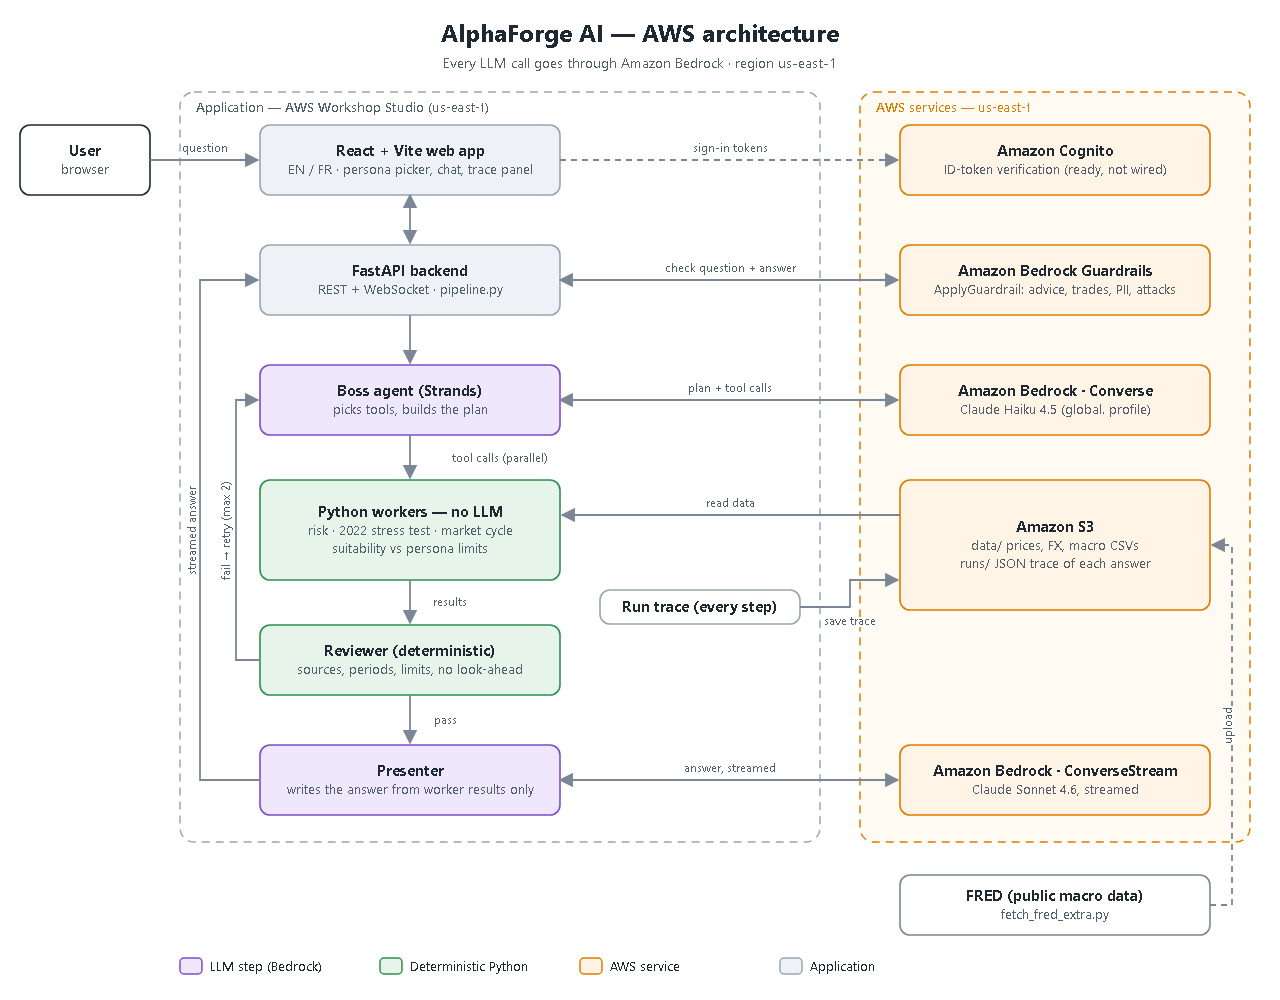
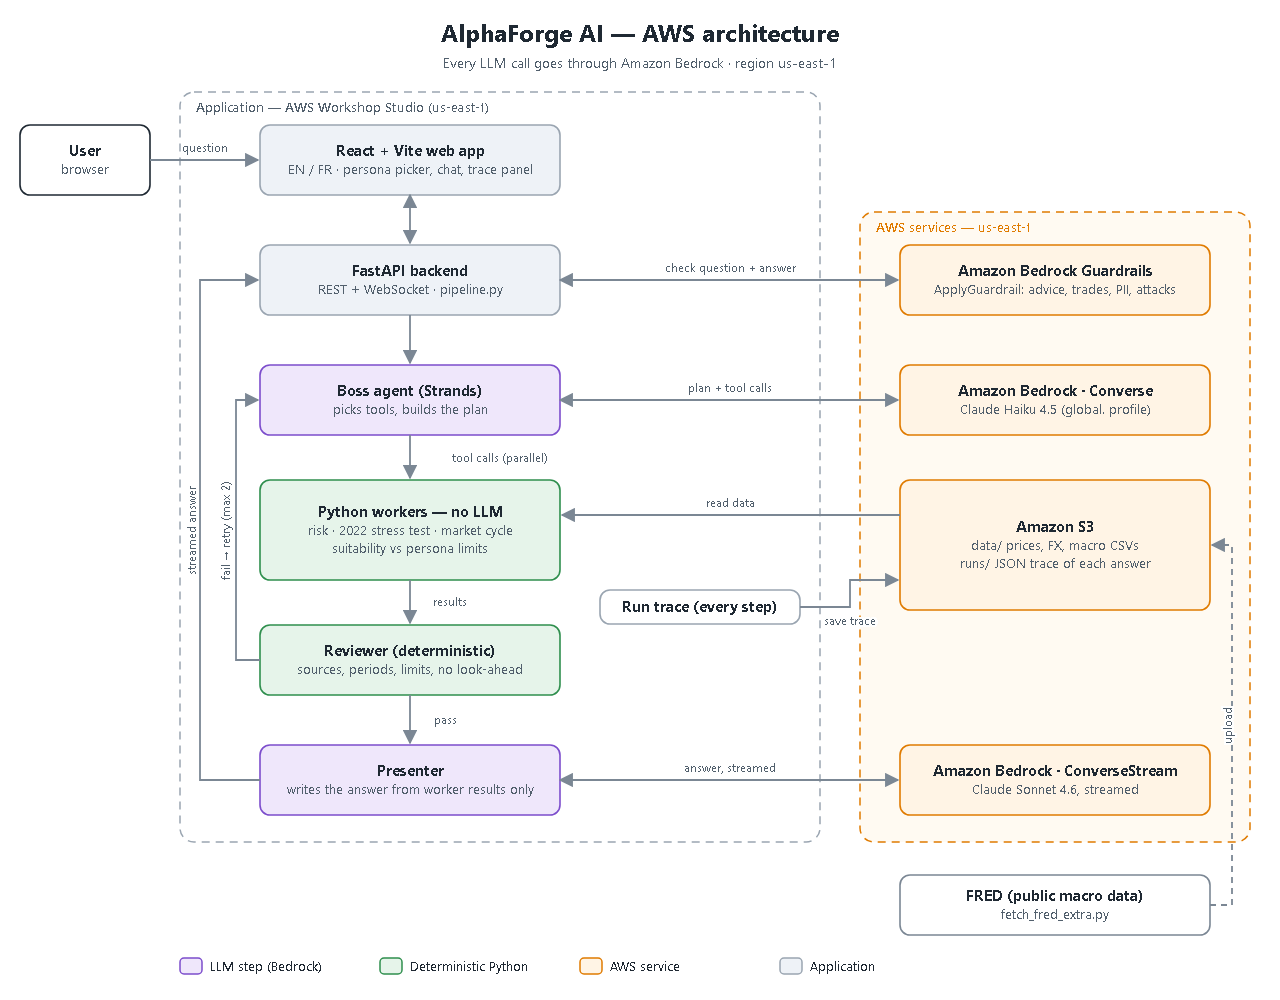
Docs: remove Amazon Cognito from the one-pager, architecture docs and diagrams

Changed region(s): [[0.6875, 0.124, 0.9688, 0.217]]

diff --git a/docs/architecture-aws.fr.md b/docs/architecture-aws.fr.md
@@ -19,7 +19,6 @@ PNG: [architecture-aws.fr.png](architecture-aws.fr.png)
 | **Amazon Bedrock — ConverseStream** | Le présentateur (Claude Sonnet 4.6) rédige la réponse à partir des seuls résultats des travailleurs ; le texte est diffusé au navigateur | `presenter.py` |
 | **Amazon Bedrock Guardrails — ApplyGuardrail** | Filtre la question et la réponse : sujets refusés (conseil personnel réel, transactions réelles), PII, contenu, attaques de prompt ; caviardage des PII avant l'écriture de la trace | `guardrail.py` |
 | **Amazon S3** | `s3://$DATA_BUCKET/data/` : prix, FX, macro (lecture avec `DATA_SOURCE=s3`) ; `s3://$DATA_BUCKET/runs/<run_id>.json` : trace complète de chaque réponse, liée dans l'interface | `workers/data_retriever.py`, `run_trace.py` |
-| **Amazon Cognito** | Vérification des jetons ID implémentée et testée ; aucun groupe d'utilisateurs configuré, le serveur tourne en mode dev | `server/auth.py` |
 | **AWS Workshop Studio** (environnement fourni) | Exécute le backend et l'interface (code-server derrière CloudFront) avec des identifiants temporaires | — |
 
 ## Parcours d'une question

diff --git a/docs/architecture-aws.en.md b/docs/architecture-aws.en.md
@@ -19,7 +19,6 @@ PNG: [architecture-aws.en.png](architecture-aws.en.png)
 | **Amazon Bedrock — ConverseStream** | The presenter (Claude Sonnet 4.6) writes the answer from the worker results only; the text is streamed to the browser | `presenter.py` |
 | **Amazon Bedrock Guardrails — ApplyGuardrail** | Filters the question and the answer: denied topics (personal advice to the real user, real trades), PII, content, prompt attacks; PII redacted before the trace is written | `guardrail.py` |
 | **Amazon S3** | `s3://$DATA_BUCKET/data/`: prices, FX, macro (read with `DATA_SOURCE=s3`); `s3://$DATA_BUCKET/runs/<run_id>.json`: full trace of every answer, linked in the UI | `workers/data_retriever.py`, `run_trace.py` |
-| **Amazon Cognito** | ID-token verification implemented and tested; no user pool configured, the server runs in dev mode | `server/auth.py` |
 | **AWS Workshop Studio** (provided environment) | Runs the backend and the UI (code-server behind CloudFront) with temporary credentials | — |
 
 ## Life of a question

diff --git a/docs/one-pager.fr.md b/docs/one-pager.fr.md
@@ -43,8 +43,8 @@ ce qui pourrait mal tourner, et les conflits avec le profil.
 
 ## AWS au cœur de la solution
 Amazon Bedrock (Converse + ConverseStream, Claude Haiku 4.5 et Sonnet 4.6) · Bedrock Guardrails
-(ApplyGuardrail, entrée et sortie) · Amazon S3 (données et traces d'exécution) · Amazon Cognito (vérification
-des jetons prête). Région `us-east-1`. Détails : [architecture-aws.fr.md](architecture-aws.fr.md).
+(ApplyGuardrail, entrée et sortie) · Amazon S3 (données et traces d'exécution).
+Région `us-east-1`. Détails : [architecture-aws.fr.md](architecture-aws.fr.md).
 
 ## Valeur d'affaires
 Pour une banque, un courtier ou une plateforme d'éducation financière : un assistant qui **montre son

diff --git a/docs/one-pager.en.md b/docs/one-pager.en.md
@@ -42,8 +42,8 @@ assets, how it fits the persona's horizon and risk tolerance, what could go wron
 
 ## AWS at the core
 Amazon Bedrock (Converse + ConverseStream, Claude Haiku 4.5 and Sonnet 4.6) · Bedrock Guardrails
-(ApplyGuardrail, input and output) · Amazon S3 (data and run traces) · Amazon Cognito (token verification
-ready). Region `us-east-1`. Details: [architecture-aws.en.md](architecture-aws.en.md).
+(ApplyGuardrail, input and output) · Amazon S3 (data and run traces).
+Region `us-east-1`. Details: [architecture-aws.en.md](architecture-aws.en.md).
 
 ## Business value
 For a bank, a broker or a financial-education platform: an assistant that **shows its reasoning**, respects
